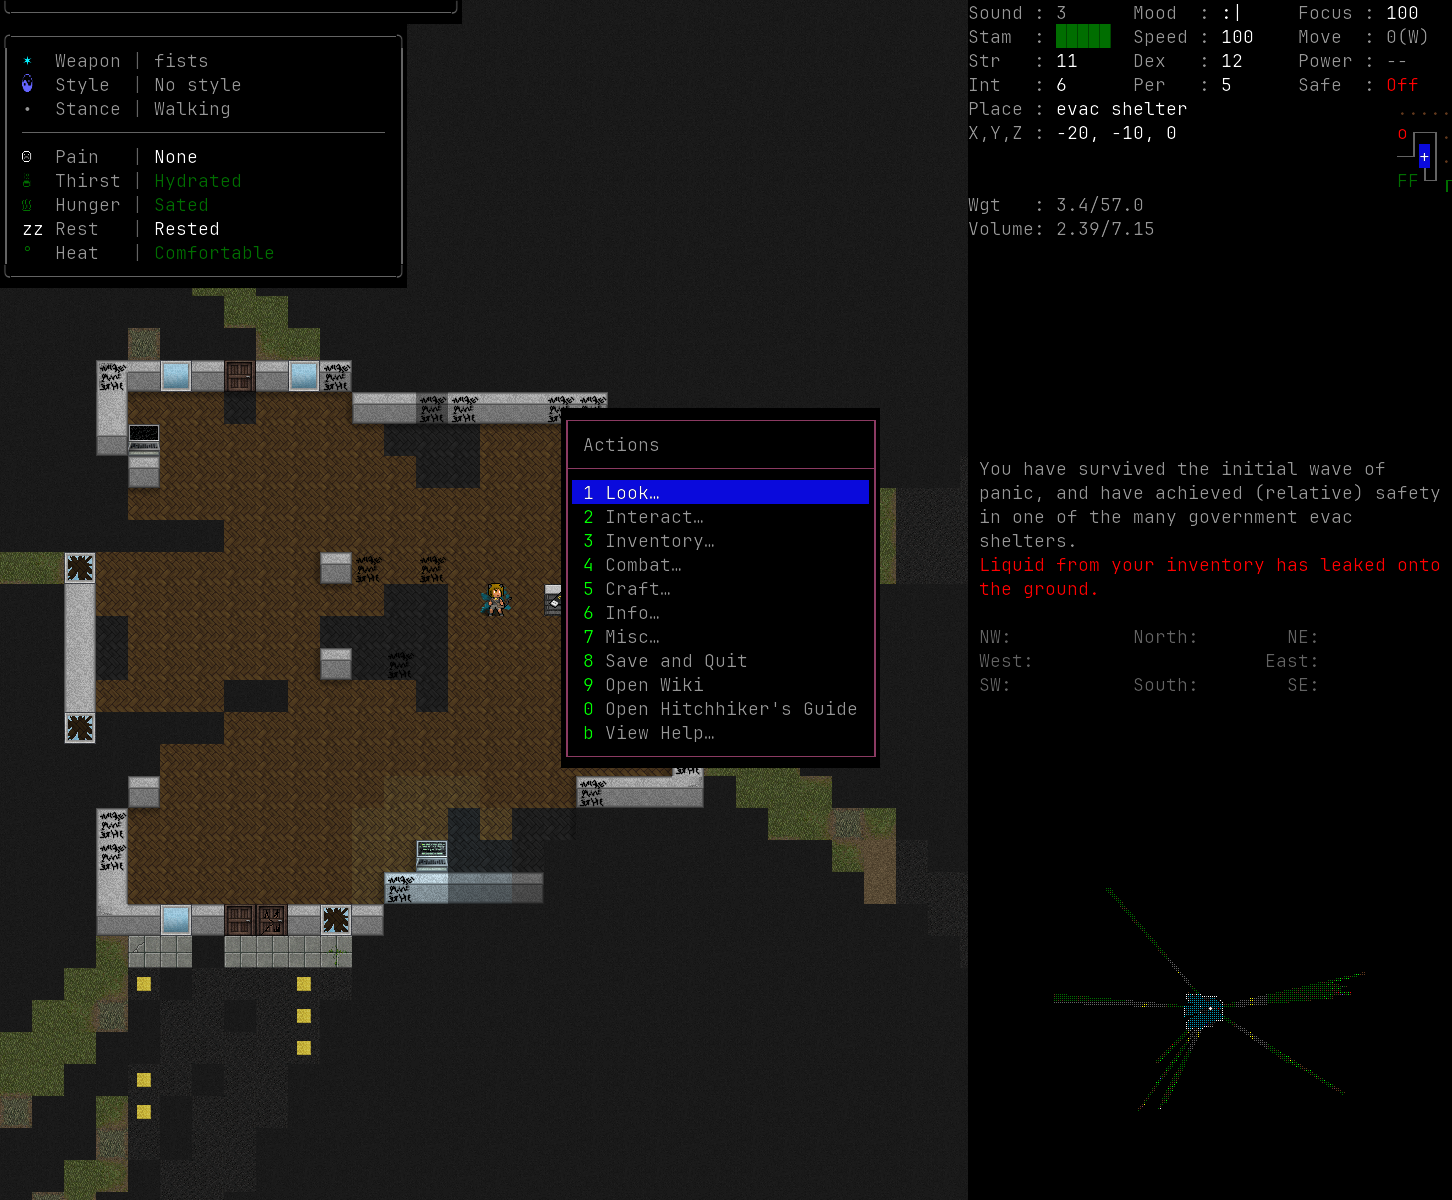
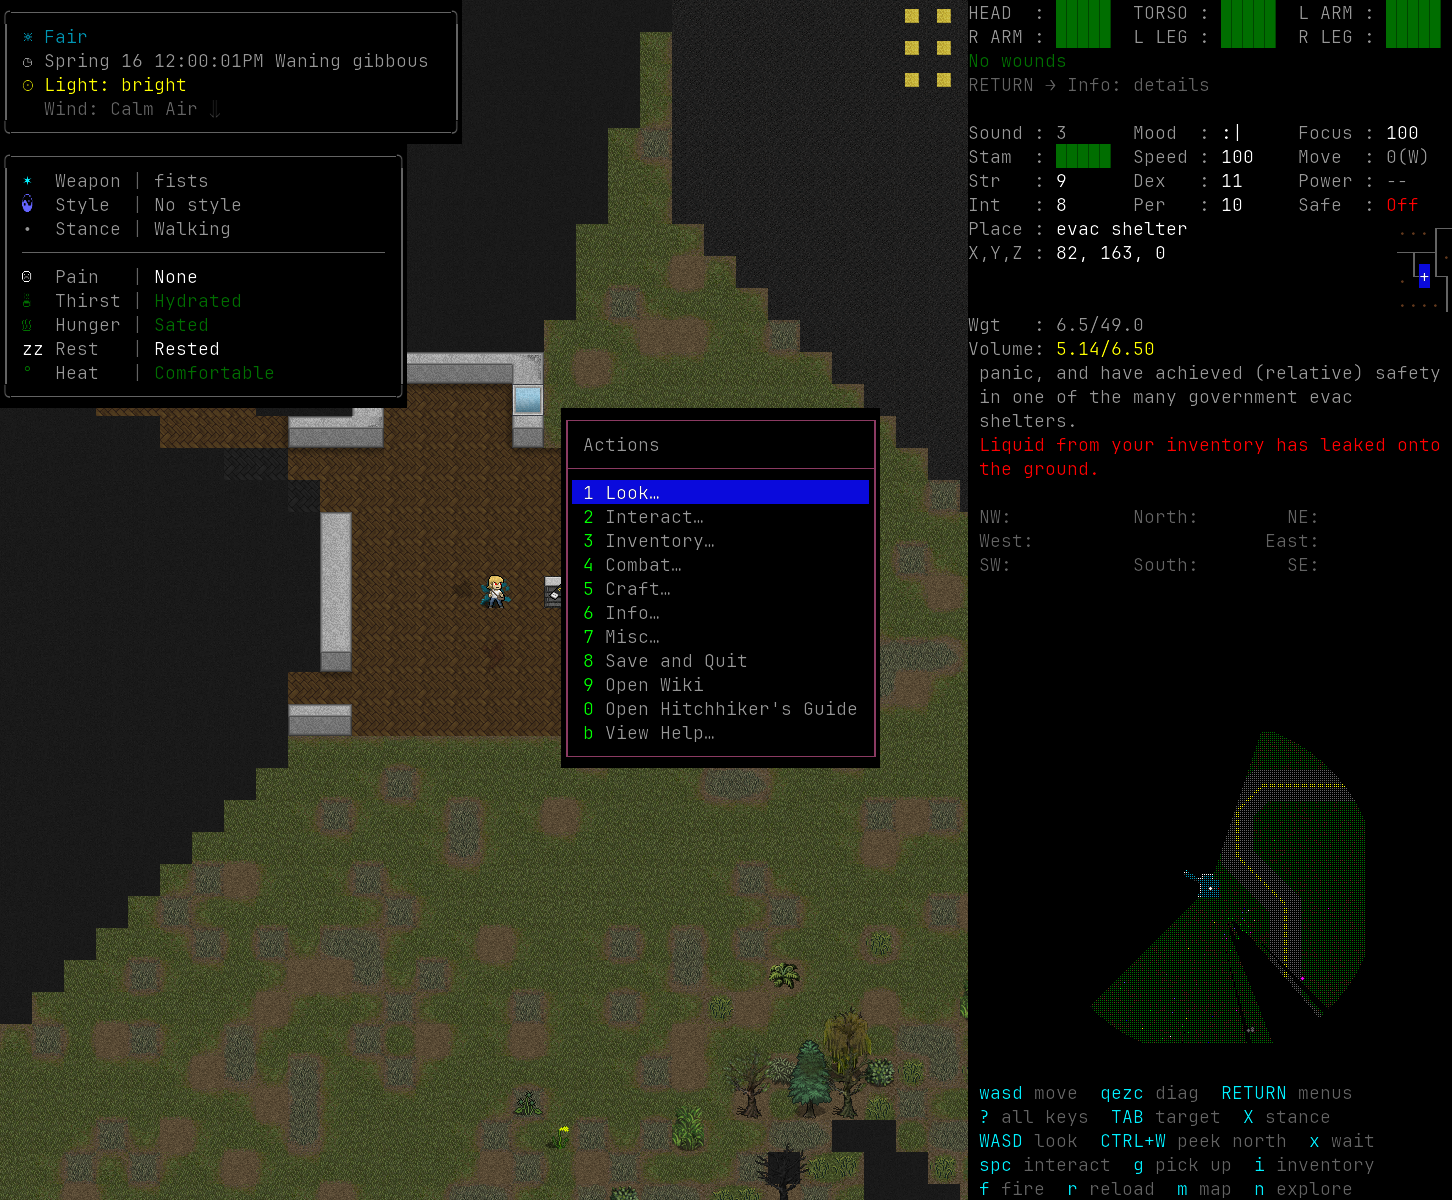
docs: refresh verified feature screenshots and runtime results

diff --git a/docs/fork/feature-screenshots.md b/docs/fork/feature-screenshots.md
@@ -13,7 +13,7 @@ python3 tests/e2e/feature_shots.py
 
 ![Modern HUD](images/features/hud-modern.png)
 
-The fork draws its readings in boxes: weapon and style, stance, needs, mood, sound and stats. The sidebar keeps the message log, the compass and the pixel minimap.
+Weather and time sit above the weapon, style, stance and needs boxes. The sidebar keeps the limb bars, sound, mood, stats, message log, compass and pixel minimap.
 
 ## Classic HUD
 
@@ -31,7 +31,7 @@ Enter opens every command group: Items, Interact, Info, Misc, crafting, vehicles
 
 ![Interact menu: quick stack and sort pile](images/features/interact-menu.png)
 
-Space opens Interact. Quick stack moves carried items into nearby storage that already holds them, and sort pile sorts the stack under the player without sorting zones.
+Enter, then Interact, opens this menu. Quick stack moves carried items into nearby storage that already holds them, and sort pile sorts the player's pile without sorting zones.
 
 ## Inventory with item variants
 
@@ -49,7 +49,7 @@ The crafting menu opens on a tab with recipes to make. The parts chain shows wha
 
 ![Look around and tile selection](images/features/look.png)
 
-Shift and a direction moves the cursor without spending a turn. The tile under the cursor shows what it holds, and Enter selects it for the next action.
+Shift and a direction inspects the adjacent tile without spending a turn. The tile inspector shows what it holds, and Space interacts with the selected tile.
 
 ## Map and minimap
 
@@ -61,7 +61,7 @@ The map opens on the local area with the pixel minimap the fork keeps on by defa
 
 ![Sidebar options from the Enter menu](images/features/sidebar-options.png)
 
-Modern leaves the panel key unbound. Enter, then Misc, opens Sidebar Options, where the panels can be moved, hidden and reordered.
+Modern leaves the panel key unbound. Enter, then Misc, then Sidebar Options opens the editor, where the panels can be moved, hidden and reordered.
 
 ## Body panel and limb details
 

diff --git a/CHANGELOG-OVERHAUL.md b/CHANGELOG-OVERHAUL.md
@@ -13,6 +13,9 @@ Upstream's own changes are in `docs/en/game/changelog`.
 - Tiles playtests and screenshot captures apply deterministic options to both config-directory
   modes. CI builds had ignored the XDG-only copy, leaving rain and blinking enabled so frame
   waits timed out. Failed screenshot launches now close their game window before the next shot.
+- Refreshed all ten feature screenshots from a verified tiles CI run. The capture script now opens
+  Interact through the command hub, reaches the Sidebar Options editor and holds Shift with the
+  look direction; captions match the current controls.
 
 ## 2026-10-20
 
